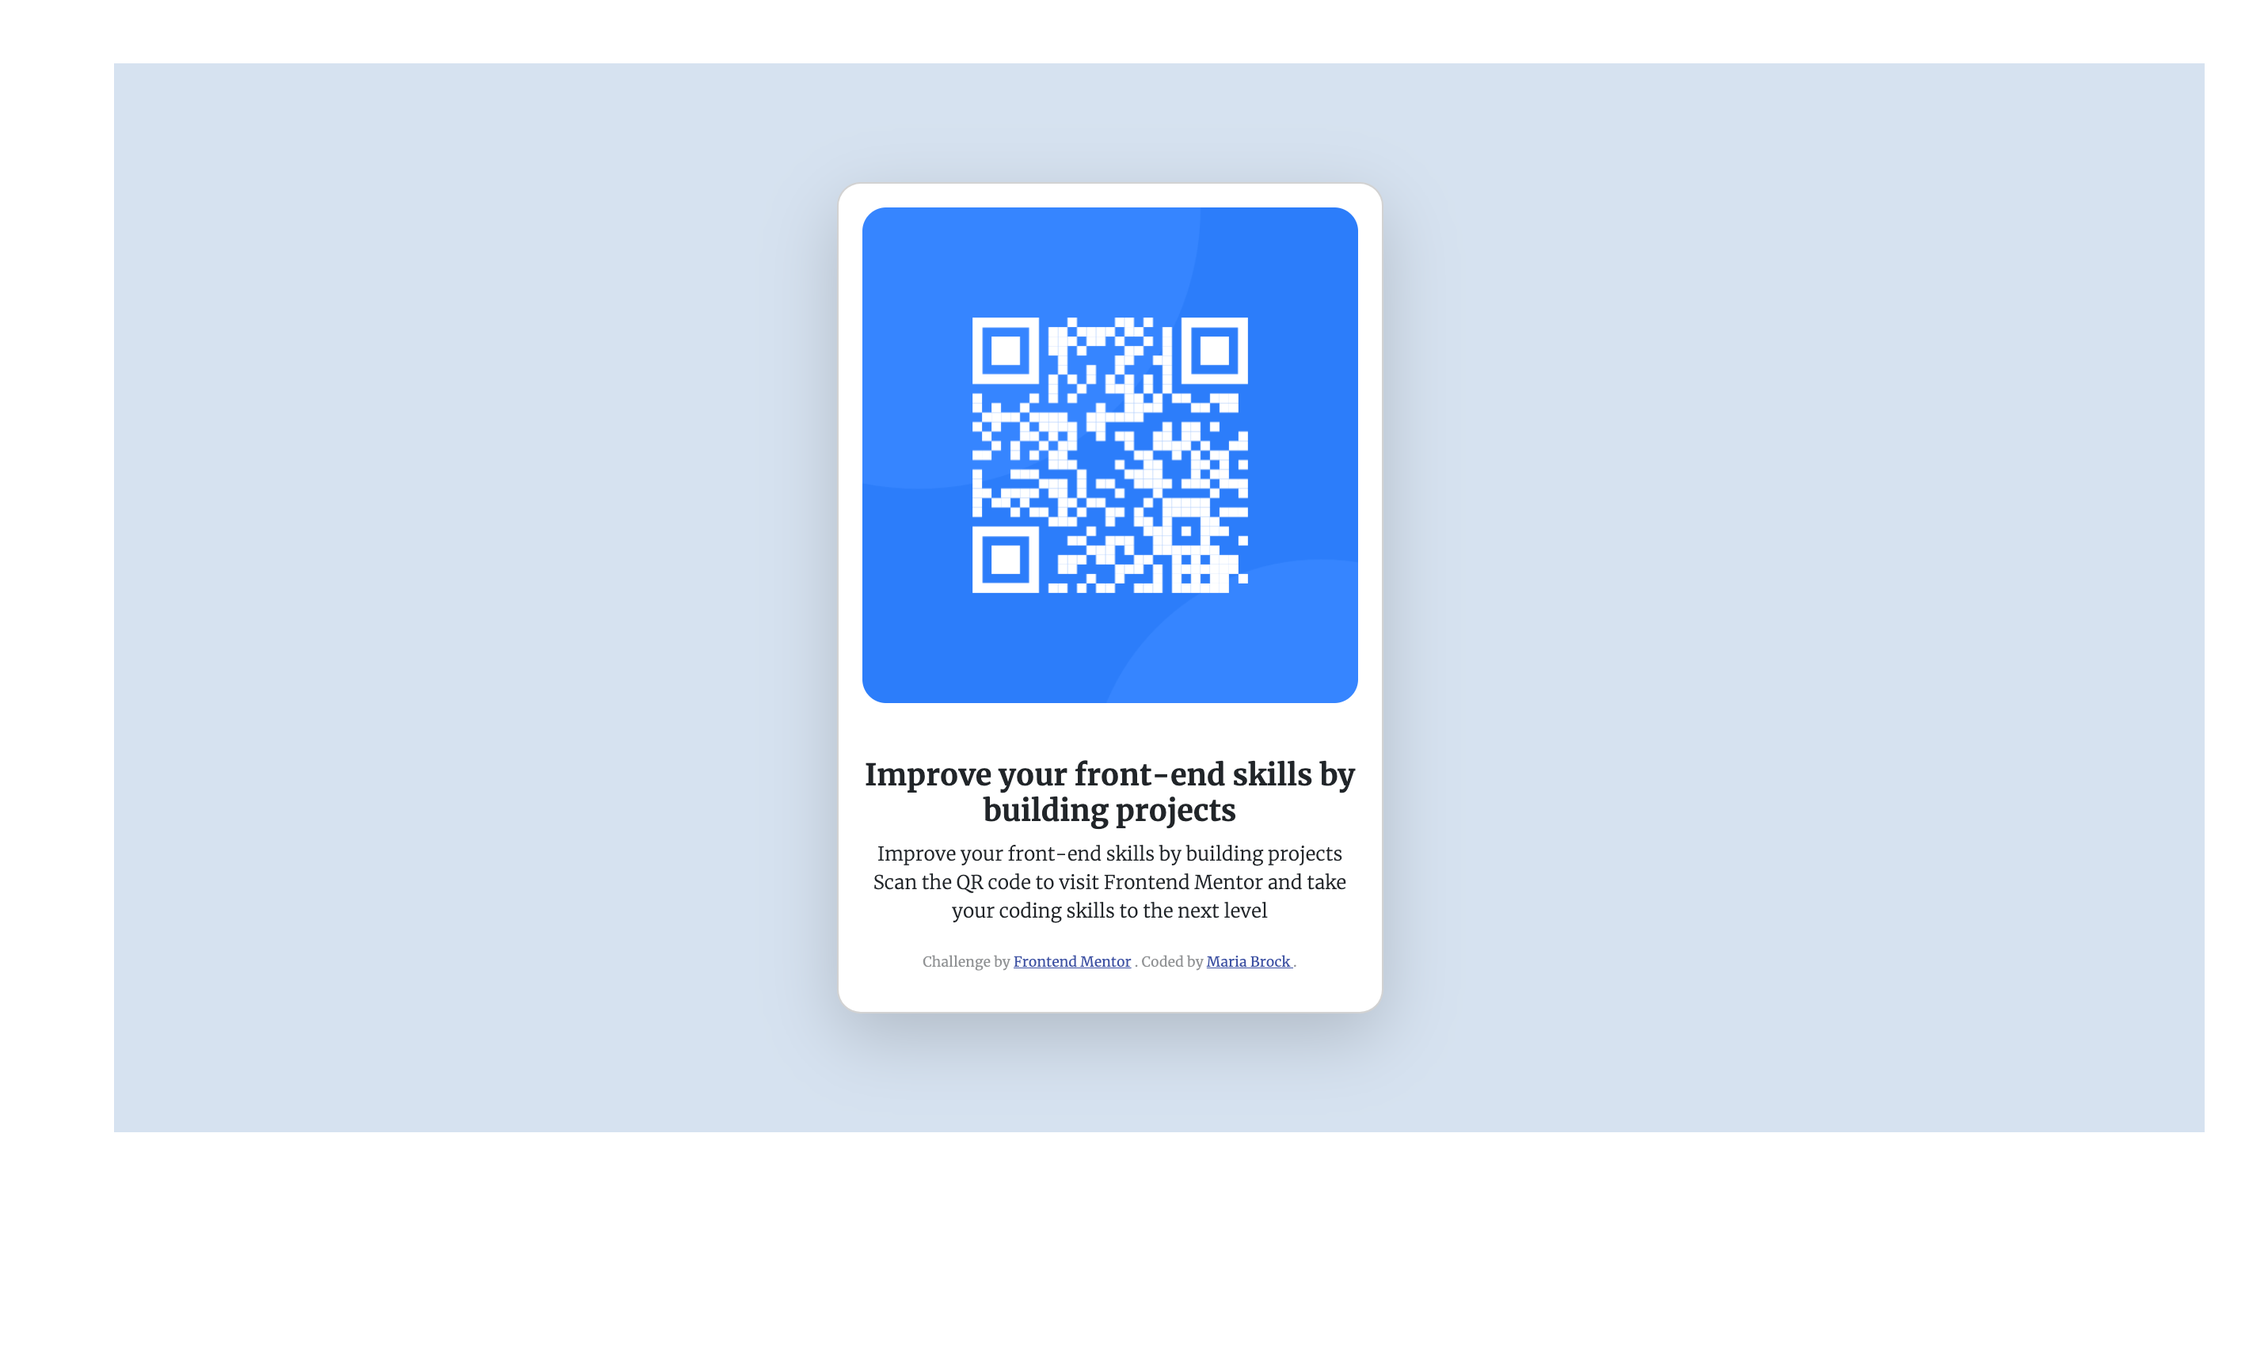
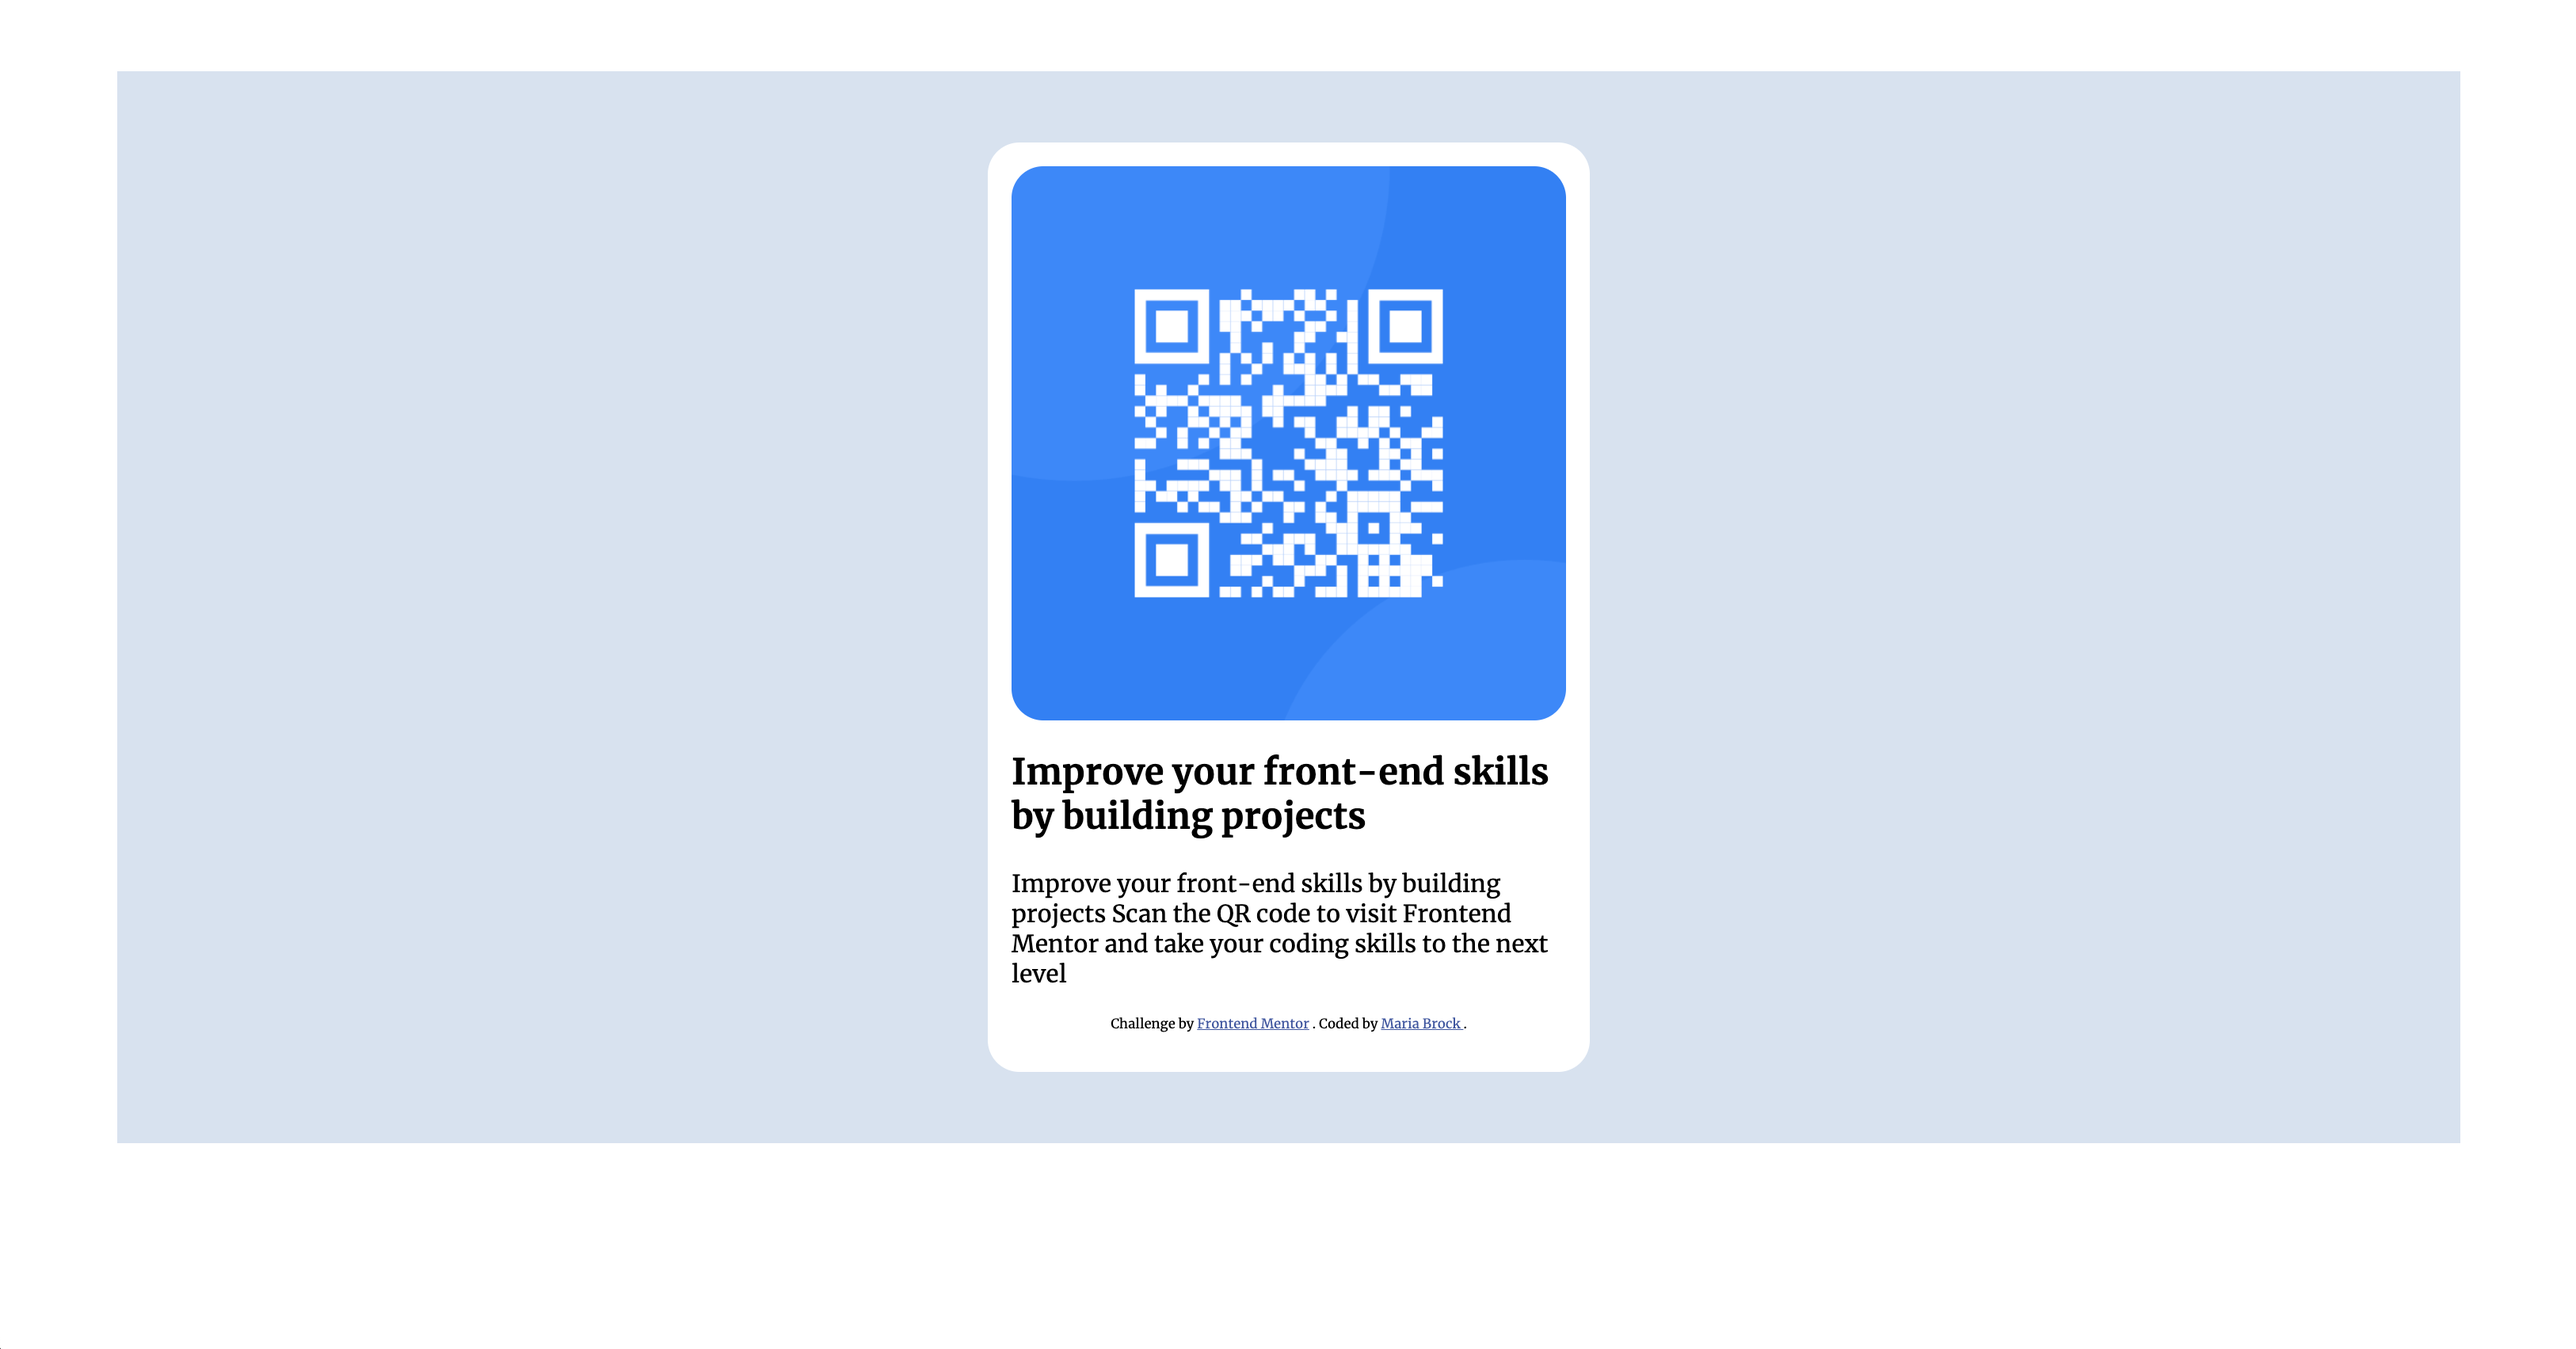
removing_bootstrap

Changed region(s): [[0.3418, 0.0935, 0.6215, 0.8106], [0.0311, 0.0312, 0.9944, 0.8729]]

diff --git a/index.html b/index.html
@@ -3,12 +3,6 @@
   <head>
     <meta charset="UTF-8" />
     <meta name="viewport" content="width=device-width, initial-scale=1.0" />
-    <link
-      href="https://cdn.jsdelivr.net/npm/bootstrap@5.3.0/dist/css/bootstrap.min.css"
-      rel="stylesheet"
-      integrity="sha384-9ndCyUaIbzAi2FUVXJi0CjmCapSmO7SnpJef0486qhLnuZ2cdeRhO02iuK6FUUVM"
-      crossorigin="anonymous"
-    />
     <link rel="stylesheet" href="./styles.css" />
     <link
       rel="icon"
@@ -20,53 +14,39 @@
     <title>Frontend Mentor | QR code component</title>
   </head>
   <body>
-    <div class="container text-center">
-      <div class="row h-100 justify-content-center">
-        <div class="col-12 p-3 m-5">
-          <div class="row h-100 justify-content-center">
-            <div class="col-sm-8 ms-md-auto p-3">
-              <div
-                class="card rounded-4 shadow-lg"
-                style="height: 35rem; width: 23rem"
+    <div class="container">
+      <div class="col">
+        <div class="card">
+          <img
+            src="./images/image-qr-code.png"
+            class="rounded-4 m-3"
+            alt="image of qr code"
+          />
+          <div class="card-bod">
+            <h2 class="card-title">
+              Improve your front-end skills by building projects
+            </h2>
+            <p class="card-text">
+              Improve your front-end skills by building projects Scan the QR
+              code to visit Frontend Mentor and take your coding skills to the
+              next level
+            </p>
+            <p class="attribution">
+              <small class="small-text"
+                >Challenge by
+                <a
+                  href="https://www.frontendmentor.io?ref=challenge"
+                  target="_blank"
+                >
+                  Frontend Mentor</a
+                >
+                . Coded by
+                <a href="#" target="_blank"> Maria Brock </a>.</small
               >
-                <img
-                  src="./images/image-qr-code.png"
-                  class="rounded-4 m-3"
-                  alt="image of qr code"
-                />
-                <div class="card-body mt-1">
-                  <h5 class="card-title fw-bold">
-                    Improve your front-end skills by building projects
-                  </h5>
-                  <p class="card-text fw-light" style="font-size: 12px">
-                    Improve your front-end skills by building projects Scan the
-                    QR code to visit Frontend Mentor and take your coding skills
-                    to the next level
-                  </p>
-                  <p class="card-text attribution">
-                    <small class="text-body-tertiary"
-                      >Challenge by
-                      <a
-                        href="https://www.frontendmentor.io?ref=challenge"
-                        target="_blank"
-                      >
-                        Frontend Mentor</a
-                      >
-                      . Coded by
-                      <a href="#" target="_blank"> Maria Brock </a>.</small
-                    >
-                  </p>
-                </div>
-              </div>
-            </div>
+            </p>
           </div>
         </div>
       </div>
     </div>
-    <script
-      src="https://cdn.jsdelivr.net/npm/bootstrap@5.3.0/dist/js/bootstrap.bundle.min.js"
-      integrity="sha384-geWF76RCwLtnZ8qwWowPQNguL3RmwHVBC9FhGdlKrxdiJJigb/j/68SIy3Te4Bkz"
-      crossorigin="anonymous"
-    ></script>
   </body>
 </html>

diff --git a/styles.css b/styles.css
@@ -7,11 +7,31 @@ html, body {
     margin: 0;
     padding: 0;
     font-size: 15px;
+    display: block;
 }
 
 .container {
+    display: flex;
+    flex-direction: row;
+    justify-content: center;
     background: hsl(212, 45%, 89%);
     margin: 3em 5em;
+    padding: 3rem;
+}
+
+.card {
+    display: flex;
+    flex-direction: column;
+    background-color: white;
+    border-radius: 20px;
+    width: 350px;
+    padding: 1rem;
+}
+
+img{
+    border-radius: 20px;
+    height: 350px;
+    width: 350px;
 }
 
 .attribution {
@@ -29,5 +49,18 @@ html, body {
         background: hsl(212, 45%, 89%);
         height: 100%;
         margin: 0;
+    }
+    .card {
+        display: flex;
+        flex-direction: column;
+        background-color: white;
+        border-radius: 20px;
+        width: 300px;
+        padding: 1rem;
+    }
+    img{
+        border-radius: 20px;
+        height: 300px;
+        width: 300px;
     }
 }
